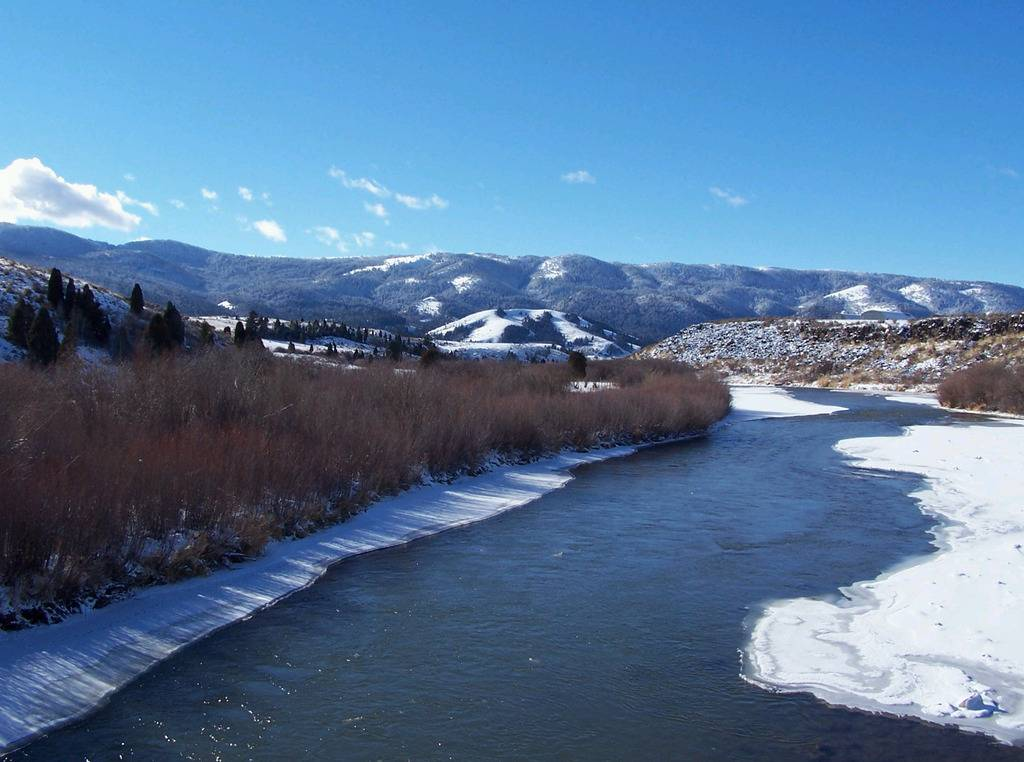
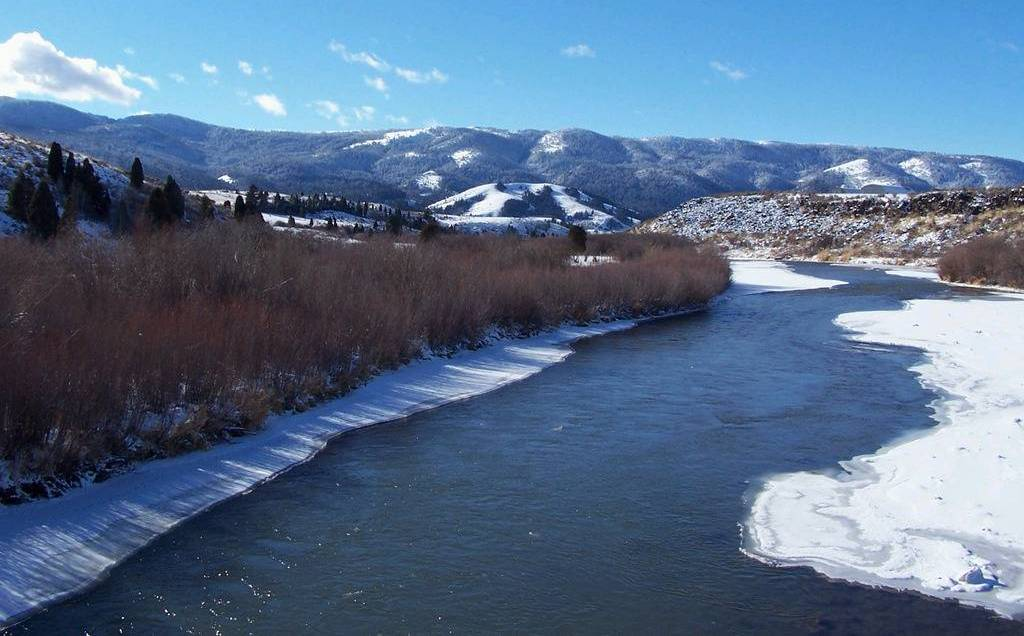
resized home town pics

diff --git a/lesson11/css/small.css b/lesson11/css/small.css
@@ -85,7 +85,8 @@ img {
 }
 header img {
     width: 80px;
-    height: auto;
+    height: 61px;
+    /* height: auto; */
     margin-right: 2em;
     border: 3px solid moccasin;
 }
@@ -212,7 +213,8 @@ article {
   }
   div.social img {
     width: 40px;
-    height: auto;
+    height: 40px;
+    /* height: auto; */
     /* border: 1px solid #ccc; */
   }
   i {

diff --git a/lesson11/css/medium.css b/lesson11/css/medium.css
@@ -156,7 +156,7 @@
         grid-column: 1;
         grid-row: 1;
     }
-    .townsdata img {width: 100%; height: auto;padding:0;}
+    /* .townsdata img {width: 100%; height: auto;padding:0;} */
     
     .chillChart {
         display: grid;
